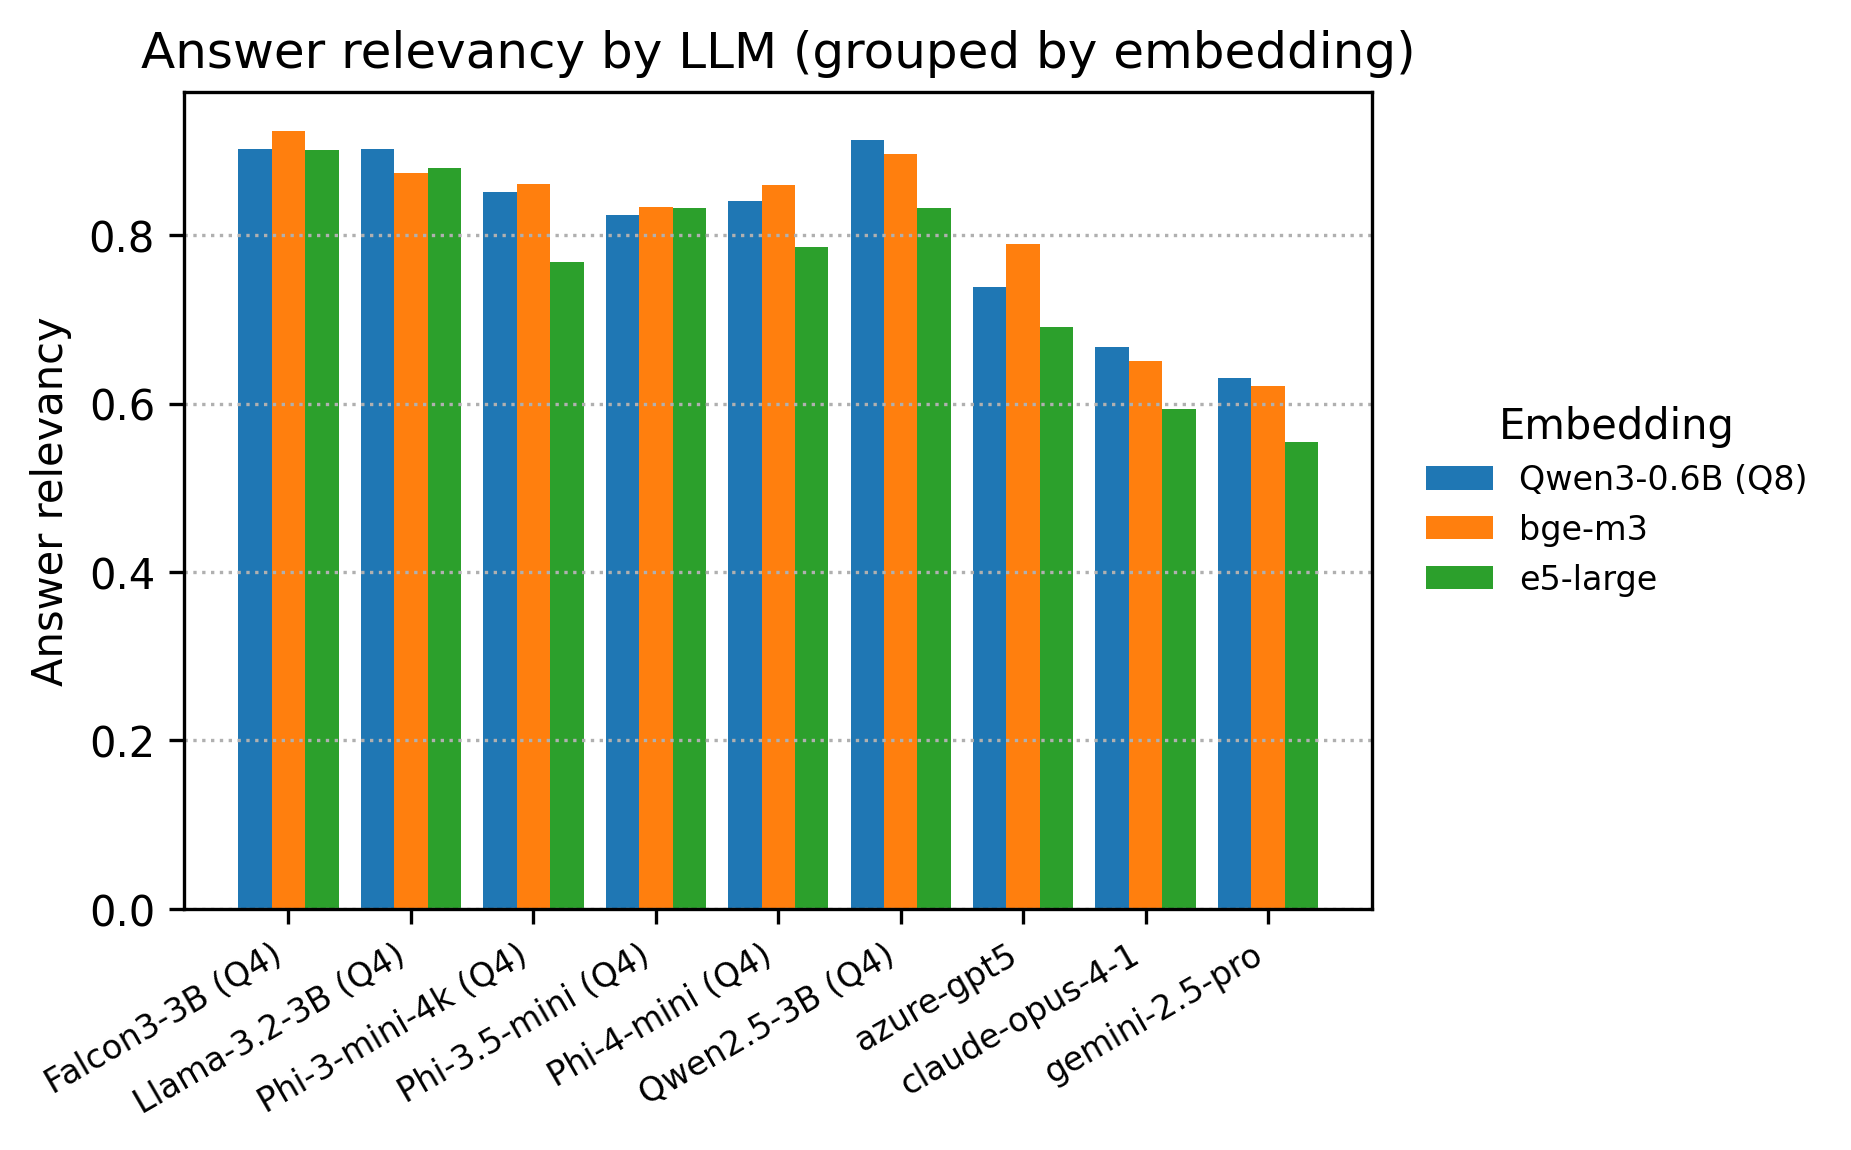
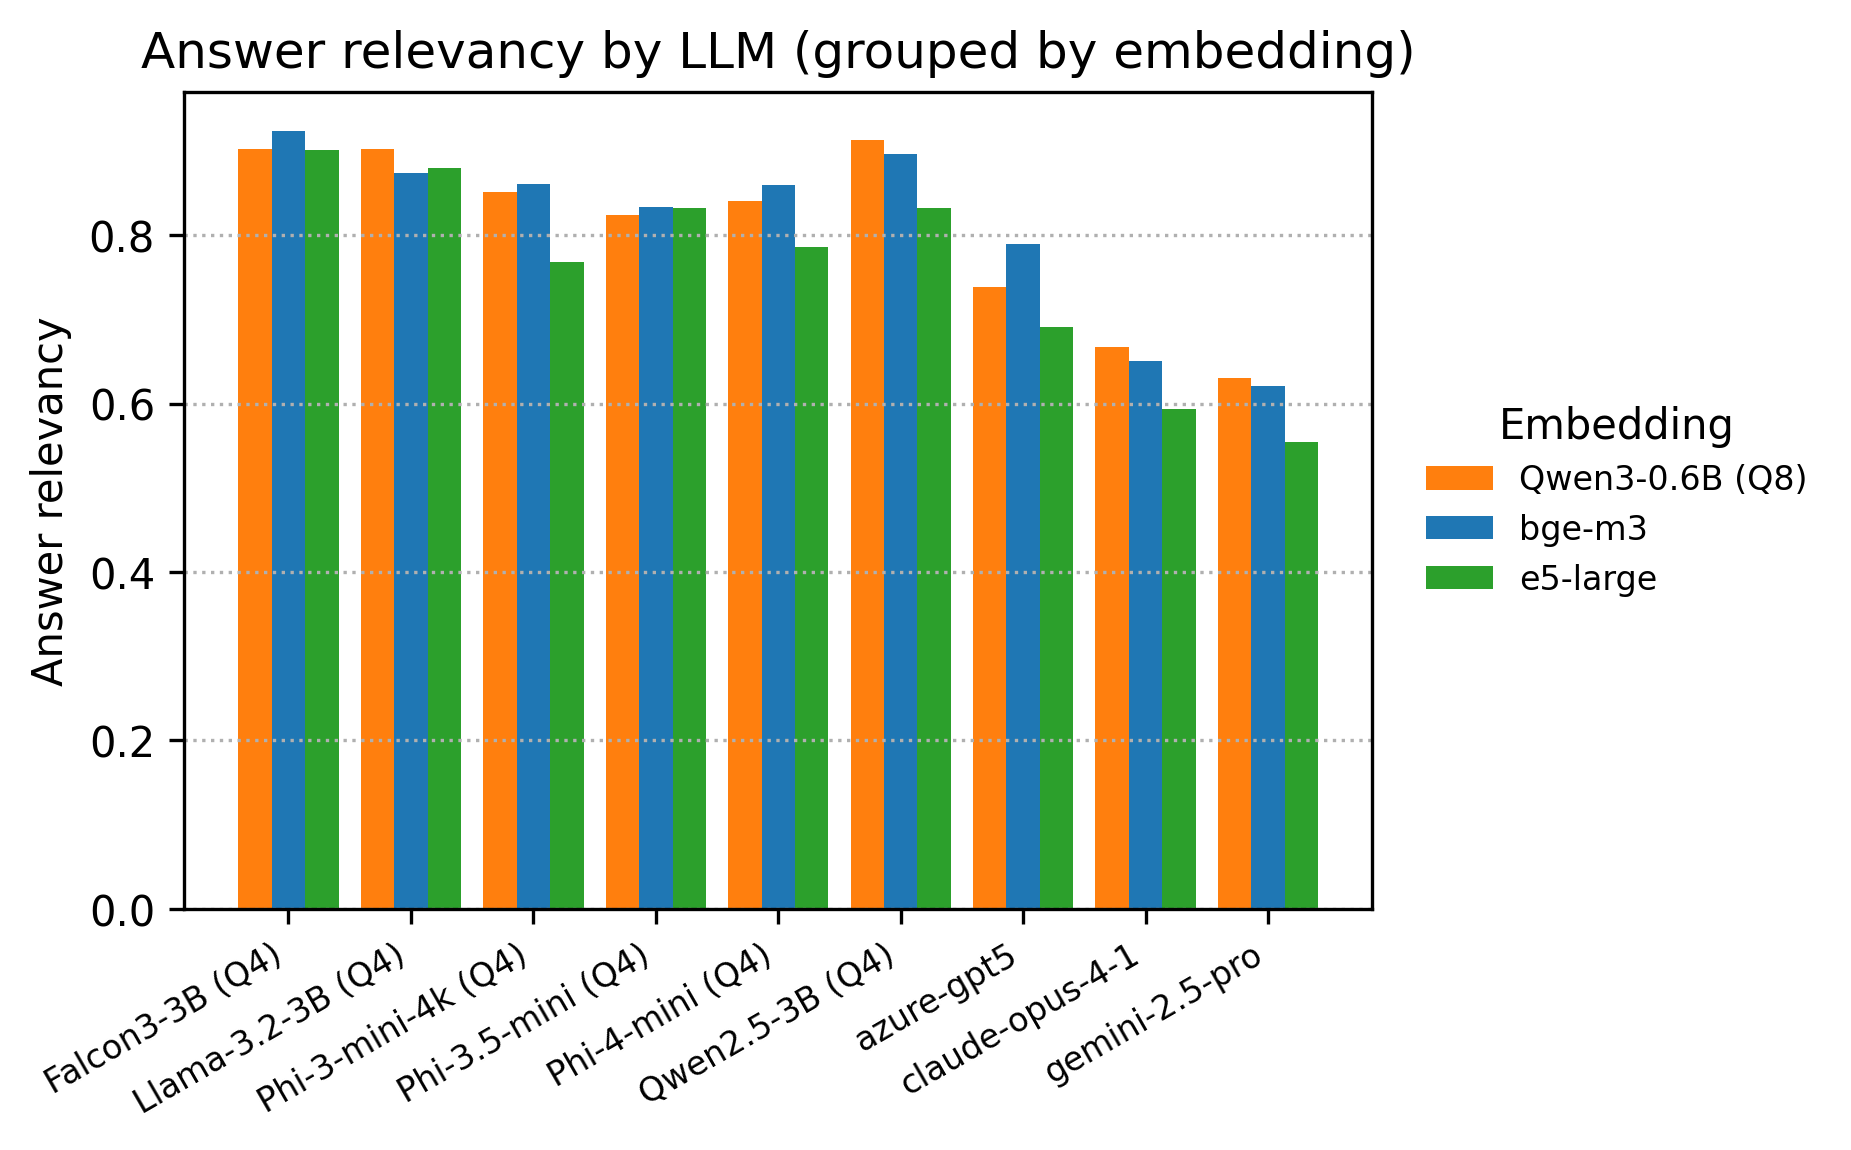
updated the colors correctly

diff --git a/src/benchmarking/plot_rag_results.py b/src/benchmarking/plot_rag_results.py
@@ -233,6 +233,45 @@ def _load_label_map(path: Path | None) -> Tuple[Dict[str, str], Dict[str, str]]:
 
 
 # --- Plotting helpers ---
+def _get_embedding_color_map(embeddings: Iterable[str], emb_map: Dict[str, str] = None) -> Dict[str, Tuple[float, float, float, float]]:
+    """Create consistent color mapping for embedding models."""
+    # Define explicit colors for known embeddings (RGBA tuples)
+    explicit_colors = {
+        "bge-m3": (0.12156862745098039, 0.4666666666666667, 0.7058823529411765, 1.0),  # blue (tab10 color 0)
+        "e5-large": (0.17254901960784313, 0.6274509803921569, 0.17254901960784313, 1.0),  # green (tab10 color 2)
+        "Qwen3-0.6B (Q8)": (1.0, 0.4980392156862745, 0.054901960784313725, 1.0),  # orange (tab10 color 1)
+    }
+
+    # Get tab10 colormap for fallback colors
+    cmap = mpl.colormaps.get("tab10")
+
+    # Create mapping
+    color_map = {}
+    used_indices = {0, 1, 2}  # Reserve indices for explicit colors
+    fallback_index = 3
+
+    for emb in embeddings:
+        # Convert to shortened label for color lookup (only if emb_map is provided, indicating raw names)
+        if emb_map is not None:
+            # Raw embedding names - need to convert to shortened labels
+            emb_label = emb_map.get(emb, _shorten_embedding_label(emb))
+        else:
+            # Already shortened labels - check if they need further shortening or are already in explicit_colors
+            emb_label = emb if emb in explicit_colors else _shorten_embedding_label(emb)
+
+        if emb_label in explicit_colors:
+            color_map[emb] = explicit_colors[emb_label]
+        else:
+            # Use fallback colors for unknown embeddings
+            while fallback_index in used_indices:
+                fallback_index += 1
+            color_map[emb] = cmap(fallback_index % 10)
+            used_indices.add(fallback_index % 10)
+            fallback_index += 1
+
+    return color_map
+
+
 def _figsize_inches() -> Tuple[float, float]:
     return (_mm_to_in(FIGSIZE_MM[0]), _mm_to_in(FIGSIZE_MM[1]))
 
@@ -277,10 +316,15 @@ def plot_grouped_bars(
     bar_width = total_width / n_embs
     offsets = np.linspace(-total_width / 2 + bar_width / 2, total_width / 2 - bar_width / 2, n_embs)
 
+    # Create consistent color mapping using explicit colors (pivot.columns already contains shortened labels)
+    emb_to_color = _get_embedding_color_map(pivot.columns)
+
     fig, ax = plt.subplots(figsize=_figsize_inches())
     for i, emb in enumerate(pivot.columns):
         values = pivot[emb].values
-        ax.bar(x + offsets[i], values, width=bar_width, label=str(emb))
+        # Use consistent color for this embedding
+        color = emb_to_color.get(emb, (0.5, 0.5, 0.5, 1.0))  # fallback to gray
+        ax.bar(x + offsets[i], values, width=bar_width, label=str(emb), color=color)
 
     ax.set_xticks(x)
     ax.set_xticklabels([str(v) for v in pivot.index], rotation=XTICK_ROT, ha="right", fontsize=XTICK_FSIZE)
@@ -327,9 +371,8 @@ def plot_ranking(
 
     # Color-code bars by embedding and add legend
     unique_embs = list(dict.fromkeys(ranked["embedding"]))
-    cmap = mpl.colormaps.get("tab10")
-    emb_to_color = {emb: cmap(i % 10) for i, emb in enumerate(unique_embs)}
-    colors = [emb_to_color[e] for e in ranked_for_chart["embedding"]]
+    emb_to_color = _get_embedding_color_map(unique_embs)
+    colors = [emb_to_color.get(e, (0.5, 0.5, 0.5, 1.0)) for e in ranked_for_chart["embedding"]]
     ax.barh(ranked_for_chart["pair"], ranked_for_chart["aggregate"], color=colors)
     ax.set_xlabel("Aggregate score")
     ax.set_title("Overall performance ranking (weighted mean)")
@@ -502,6 +545,10 @@ def plot_radar_profiles(
         print("⚠ No data for radar profiles. Skipping.")
         return
 
+    # Create consistent color mapping using explicit colors
+    unique_embs = list(dict.fromkeys(df["embedding"].unique()))
+    emb_to_color = _get_embedding_color_map(unique_embs, emb_map)
+
     categories = list(METRICS)
     angles = np.linspace(0, 2 * np.pi, len(categories), endpoint=False)
     angles = np.concatenate([angles, [angles[0]]])  # close the loop
@@ -510,10 +557,13 @@ def plot_radar_profiles(
         values = [row[m] for m in categories]
         values = np.concatenate([values, [values[0]]])  # close the loop
 
+        # Get the color for this embedding
+        color = emb_to_color.get(emb, (0.5, 0.5, 0.5, 1.0))  # fallback to gray
+
         fig = plt.figure(figsize=_figsize_inches())
         ax = fig.add_subplot(111, polar=True)
-        ax.plot(angles, values, marker="o", linewidth=2)
-        ax.fill(angles, values, alpha=0.25)
+        ax.plot(angles, values, marker="o", linewidth=2, color=color)
+        ax.fill(angles, values, alpha=0.25, color=color)
         ax.set_xticks(angles[:-1])
         ax.set_xticklabels([c.replace("_", " ") for c in categories])
         ax.set_yticklabels([])
